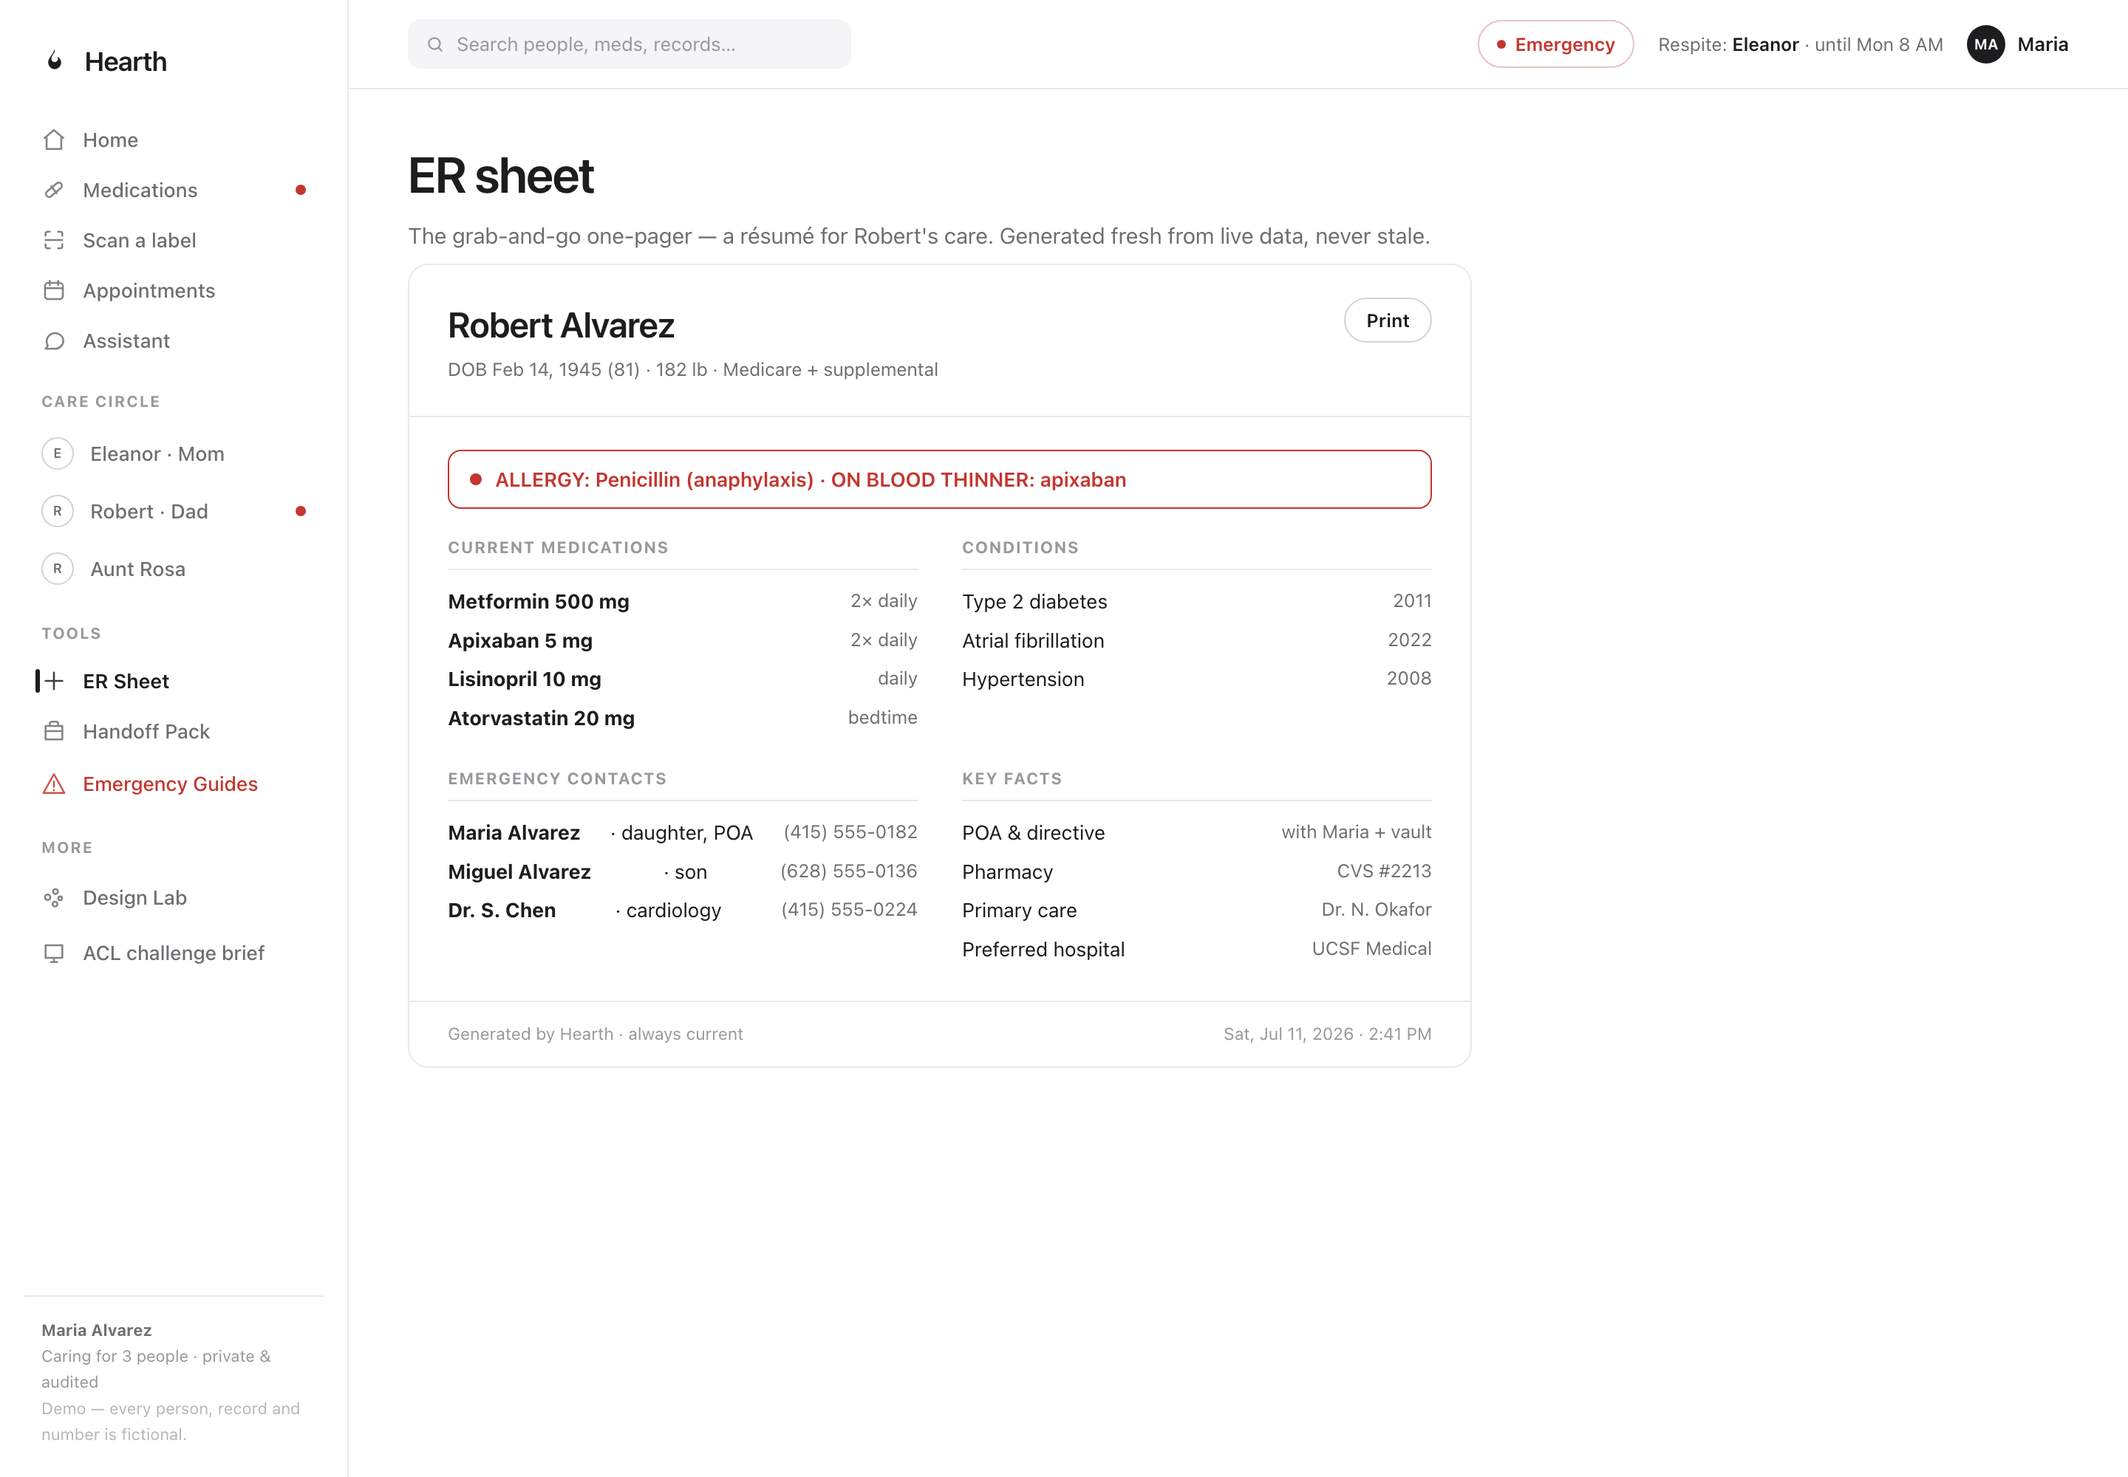
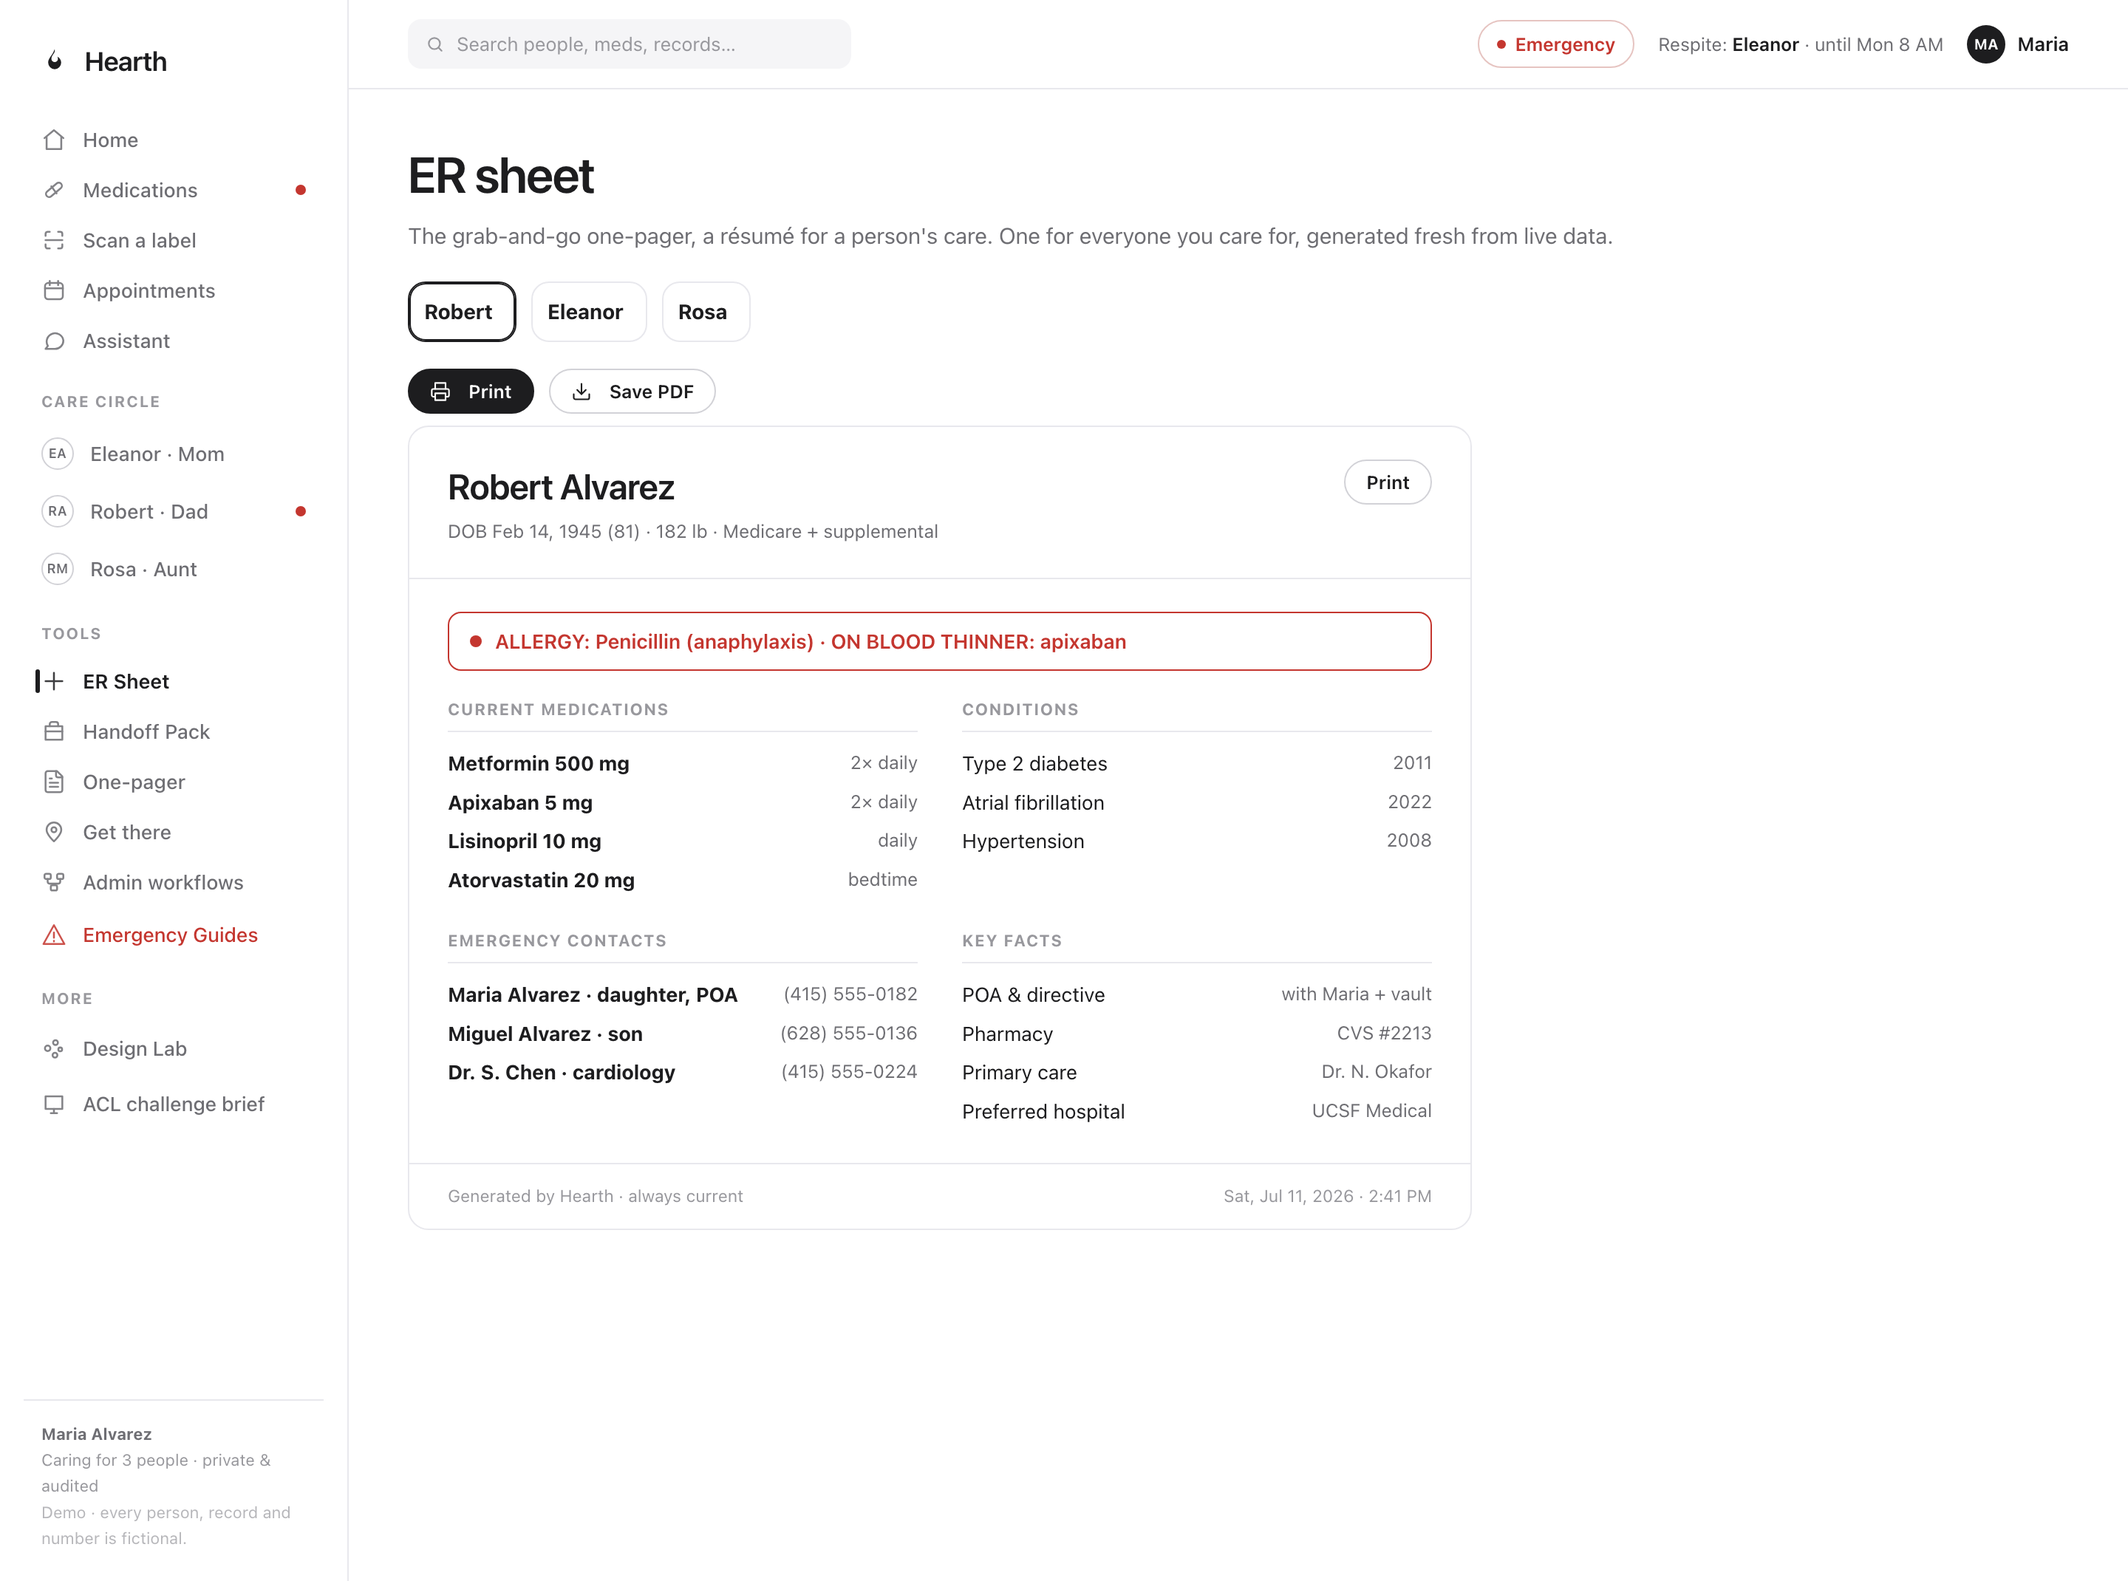
UI polish: thin scrollbars; ER Sheet now selectable for all three people; non-zoomed static street map on Get there (full route + both markers visible); tighter one-pager that fits one page; concise transport intro

diff --git a/index.html b/index.html
@@ -293,7 +293,7 @@ table.tbl tr:last-child td{border-bottom:none}
 .pchip .av{width:26px;height:26px;font-size:11px}
 .pchip b{font-size:14px}
 .pchip .sm{font-size:12px;color:var(--ink3)}
-.mapwrap{border:1px solid var(--line);border-radius:16px;overflow:hidden;background:#F7F7F5;position:relative;min-height:390px}
+.mapwrap{border:1px solid var(--line);border-radius:16px;overflow:hidden;background:#EDEEE9;position:relative;aspect-ratio:64/46}
 .mapwrap svg{width:100%;height:100%;display:block}
 .maptag{position:absolute;left:16px;bottom:14px;font-size:12px;color:var(--ink);background:rgba(255,255,255,.9);border:1px solid var(--line);border-radius:9px;padding:7px 11px;backdrop-filter:blur(4px)}
 .ropt{display:flex;align-items:center;gap:14px;border:1px solid var(--line);border-radius:14px;padding:14px 16px;margin-top:12px;transition:.15s}
@@ -389,6 +389,19 @@ table.tbl tr:last-child td{border-bottom:none}
 .srgrid{display:grid;grid-template-columns:1fr 1fr;gap:13px 18px}
 .srgrid .k{display:block;font-size:11px;color:var(--ink3);text-transform:uppercase;letter-spacing:.04em;margin-bottom:2px}
 .srgrid b{font-size:13.5px}.srgrid b.red{color:var(--red)}
+
+/* thin, quiet scrollbars */
+*{scrollbar-width:thin;scrollbar-color:#CFCFD4 transparent}
+::-webkit-scrollbar{width:8px;height:8px}
+::-webkit-scrollbar-track{background:transparent}
+::-webkit-scrollbar-thumb{background:#D2D2D7;border-radius:10px;border:2px solid #fff;background-clip:padding-box}
+::-webkit-scrollbar-thumb:hover{background:#BDBDC4;background-clip:padding-box}
+/* one-pager: tighter so it reads as a single page */
+#opBody .erbody{padding:20px 24px}
+#opBody .subhead{margin:14px 0 4px}
+#opBody .lrow{padding:8px 0;font-size:13px}
+#opBody .needs td,#opBody .needs th{padding:8px 12px}
+#opBody .erband{margin:6px 0 10px}
 </style>
 </head>
 <body>
@@ -709,20 +722,9 @@ table.tbl tr:last-child td{border-bottom:none}
   <!-- ========== ER ========== -->
   <section class="view" id="v-er">
     <h1 class="greet" style="font-size:34px">ER sheet</h1>
-    <p class="subline" style="font-size:15px">The grab-and-go one-pager · a résumé for Robert's care. Generated fresh from live data, never stale.</p>
-    <div class="ersheet">
-      <div class="erhead"><div><h2>Robert Alvarez</h2><div class="sub">DOB Feb 14, 1945 (81) · 182 lb · Medicare + supplemental</div></div><button class="btn sm">Print</button></div>
-      <div class="erbody">
-        <div class="erband"><span class="dot red"></span>ALLERGY: Penicillin (anaphylaxis) · ON BLOOD THINNER: apixaban</div>
-        <div class="ergrid">
-          <div class="erb"><h5>Current medications</h5><li><b>Metformin 500 mg</b><span>2× daily</span></li><li><b>Apixaban 5 mg</b><span>2× daily</span></li><li><b>Lisinopril 10 mg</b><span>daily</span></li><li><b>Atorvastatin 20 mg</b><span>bedtime</span></li></div>
-          <div class="erb"><h5>Conditions</h5><li>Type 2 diabetes<span>2011</span></li><li>Atrial fibrillation<span>2022</span></li><li>Hypertension<span>2008</span></li></div>
-          <div class="erb"><h5>Emergency contacts</h5><li><b>Maria Alvarez</b> · daughter, POA<span>(415) 555-0182</span></li><li><b>Miguel Alvarez</b> · son<span>(628) 555-0136</span></li><li><b>Dr. S. Chen</b> · cardiology<span>(415) 555-0224</span></li></div>
-          <div class="erb"><h5>Key facts</h5><li>POA &amp; directive<span>with Maria + vault</span></li><li>Pharmacy<span>CVS #2213</span></li><li>Primary care<span>Dr. N. Okafor</span></li><li>Preferred hospital<span>UCSF Medical</span></li></div>
-        </div>
-      </div>
-      <div class="erfoot"><span>Generated by Hearth · always current</span><span>Sat, Jul 11, 2026 · 2:41 PM</span></div>
-    </div>
+    <p class="subline" style="font-size:15px">The grab-and-go one-pager, a résumé for a person's care. One for everyone you care for, generated fresh from live data.</p>
+    <div class="picker" id="erPicker"></div>
+    <div id="erBody"></div>
   </section>
 
   <!-- ========== HANDOFF ========== -->
@@ -908,7 +910,7 @@ table.tbl tr:last-child td{border-bottom:none}
   <!-- ========== TRANSPORT ========== -->
   <section class="view" id="v-transport">
     <h1 class="greet" style="font-size:34px">Get there</h1>
-    <p class="subline" style="font-size:15px" id="tIntro">The fastest, safest way to reach someone you care for, from wherever you are right now.</p>
+    <p class="subline" style="font-size:15px" id="tIntro">Pick a person. From where you are right now, Hearth compares every way to reach them, tagged fastest, safest, and most accessible, plus medical transport to get them to appointments.</p>
     <div class="picker" id="tPicker"></div>
     <div class="cols c2b" style="margin-top:10px">
       <div class="mapwrap" id="tMap"></div>
@@ -1045,35 +1047,38 @@ function kindIconName(k){var m={trigger:'play',extract:'scissors',lookup:'search
 function tTag(s){s=(s||'').toLowerCase();
  if(s.indexOf('fast')>=0)return 'fast'; if(s.indexOf('safe')>=0)return 'safe';
  if(s.indexOf('access')>=0)return 'access'; if(s.indexOf('cheap')>=0||s.indexOf('afford')>=0)return 'cheap'; return '';}
-function tRoads(){var majors=['M0 250H600','M0 150H600','M96 0V420','M250 0V420','M430 0V420'];
- var minors=['M0 90H600','M0 330H600','M170 0V420','M340 0V420','M520 0V420'];var s='';
- majors.forEach(function(d){s+='<path d="'+d+'" stroke="#E1E1DB" stroke-width="13" fill="none"/>';});
- minors.forEach(function(d){s+='<path d="'+d+'" stroke="#E7E7E1" stroke-width="7" fill="none"/>';});
- minors.forEach(function(d){s+='<path d="'+d+'" stroke="#fff" stroke-width="4" fill="none"/>';});
- majors.forEach(function(d){s+='<path d="'+d+'" stroke="#fff" stroke-width="7.5" fill="none"/>';});
- return s;}
+function tRoads(){
+ var majors=['M0 200H640','M0 300H640','M110 0V460','M280 0V460','M500 0V460'];
+ var minors=['M0 95H640','M0 400H640','M195 0V460','M390 0V460','M600 0V460'];
+ var s='';
+ majors.forEach(function(d){s+='<path d="'+d+'" stroke="#E1E1DB" stroke-width="14" fill="none"/>';});
+ minors.forEach(function(d){s+='<path d="'+d+'" stroke="#E7E7E1" stroke-width="8" fill="none"/>';});
+ minors.forEach(function(d){s+='<path d="'+d+'" stroke="#fff" stroke-width="4.5" fill="none"/>';});
+ majors.forEach(function(d){s+='<path d="'+d+'" stroke="#fff" stroke-width="8.5" fill="none"/>';});
+ return s;
+}
 function tMapSVG(){
- return '<svg viewBox="0 0 600 420" preserveAspectRatio="xMidYMid slice">'
-  +'<rect width="600" height="420" fill="#EDEEE9"/>'
-  +'<path d="M470 0 C500 60 480 120 522 172 C562 224 542 306 600 344 L600 420 L470 420 Z" fill="#C6D9EC"/>'
-  +'<path d="M0 366 C82 356 142 386 224 378 C306 370 366 398 448 392 L600 404 L600 420 L0 420 Z" fill="#C6D9EC"/>'
-  +'<rect x="60" y="152" width="212" height="70" rx="11" fill="#D7E6C8"/>'
-  +'<rect x="332" y="58" width="118" height="90" rx="11" fill="#D7E6C8"/>'
+ var route='M110 360 L110 300 L280 300 L280 200 L500 200 L500 120';
+ return '<svg viewBox="0 0 640 460" preserveAspectRatio="xMidYMid meet">'
+  +'<rect x="-30" y="-30" width="700" height="520" fill="#EDEEE9"/>'
+  +'<path d="M-30 398 C90 384 150 414 250 406 C355 398 425 424 525 416 L670 428 L670 490 L-30 490 Z" fill="#C6D9EC"/>'
+  +'<rect x="70" y="150" width="150" height="118" rx="13" fill="#D7E6C8"/>'
+  +'<rect x="360" y="70" width="128" height="96" rx="13" fill="#D7E6C8"/>'
   +tRoads()
-  +'<path d="M96 332 L96 250 L250 250 L250 150 L430 150 L430 98" fill="none" stroke="#fff" stroke-width="9.5" stroke-linecap="round" stroke-linejoin="round"/>'
-  +'<path d="M96 332 L96 250 L250 250 L250 150 L430 150 L430 98" fill="none" stroke="#2F6FEB" stroke-width="5" stroke-linecap="round" stroke-linejoin="round"/>'
-  +'<circle cx="96" cy="332" r="14" fill="#2F6FEB" opacity=".16"/><circle cx="96" cy="332" r="7" fill="#2F6FEB" stroke="#fff" stroke-width="2.5"/>'
-  +'<g transform="translate(430,98)"><path d="M0 4C9 4 15 -3.5 15 -11A15 15 0 1 0 -15 -11C-15 -3.5 -9 4 0 4Z" fill="#C4362F"/><circle cx="0" cy="-13" r="4.6" fill="#fff"/></g>'
-  +'<text x="150" y="244" font-size="9" fill="#9C9C96" font-family="-apple-system,sans-serif">Lincoln Way</text>'
-  +'<text x="150" y="343" font-size="9" fill="#9C9C96" font-family="-apple-system,sans-serif">Judah St</text>'
-  +'<text x="262" y="118" font-size="9" fill="#9C9C96" font-family="-apple-system,sans-serif" transform="rotate(90 262 118)">19th Ave</text>'
-  +'<text x="118" y="192" font-size="9.5" fill="#8CA277" font-family="-apple-system,sans-serif">Golden Gate Park</text>'
+  +'<path d="'+route+'" fill="none" stroke="#fff" stroke-width="10.5" stroke-linecap="round" stroke-linejoin="round"/>'
+  +'<path d="'+route+'" fill="none" stroke="#2F6FEB" stroke-width="5.5" stroke-linecap="round" stroke-linejoin="round"/>'
+  +'<circle cx="110" cy="360" r="15" fill="#2F6FEB" opacity=".16"/><circle cx="110" cy="360" r="7.5" fill="#2F6FEB" stroke="#fff" stroke-width="2.5"/>'
+  +'<g transform="translate(500,120)"><path d="M0 4C9.5 4 16 -3.6 16 -12A16 16 0 1 0 -16 -12C-16 -3.6 -9.5 4 0 4Z" fill="#C4362F"/><circle cx="0" cy="-14" r="5" fill="#fff"/></g>'
+  +'<text x="150" y="294" font-size="10" fill="#9C9C96" font-family="-apple-system,sans-serif">Lincoln Way</text>'
+  +'<text x="150" y="394" font-size="10" fill="#9C9C96" font-family="-apple-system,sans-serif">Judah St</text>'
+  +'<text x="292" y="140" font-size="10" fill="#9C9C96" font-family="-apple-system,sans-serif" transform="rotate(90 292 140)">19th Ave</text>'
+  +'<text x="96" y="196" font-size="10.5" fill="#8CA277" font-family="-apple-system,sans-serif">Golden Gate Park</text>'
   +'</svg>';
 }
+
 function renderTransport(i){
  if(!TPDATA||!TPDATA.routes||!TPDATA.routes.length)return;
  var picker=document.getElementById('tPicker'); if(!picker)return;
- if(TPDATA.intro){var ti=document.getElementById('tIntro');if(ti)ti.textContent=TPDATA.intro;}
  picker.innerHTML=TPDATA.routes.map(function(r,idx){
   return '<div class="pchip'+(idx===i?' on':'')+'" data-tpi="'+idx+'"><span class="av">'+(r.patient||'?').charAt(0)+'</span><b>'+(r.patient||'')+'</b><span class="sm">'+(r.toLabel||'')+'</span></div>';
  }).join('');
@@ -1250,6 +1255,44 @@ function renderOnePager(who){
  document.getElementById('opBody').innerHTML = who==="everyone"? opEveryone() : opPerson(who);
 }
 
+
+/* ===== ER sheet (all people) ===== */
+var ERDATA={
+ robert:{name:"Robert Alvarez",sub:"DOB Feb 14, 1945 (81) · 182 lb · Medicare + supplemental",allergy:"ALLERGY: Penicillin (anaphylaxis) · ON BLOOD THINNER: apixaban",dot:"red",
+  meds:[["Metformin 500 mg","2× daily"],["Apixaban 5 mg","2× daily"],["Lisinopril 10 mg","daily"],["Atorvastatin 20 mg","bedtime"]],
+  conditions:[["Type 2 diabetes","2011"],["Atrial fibrillation","2022"],["Hypertension","2008"]],
+  contacts:[["Maria Alvarez · daughter, POA","(415) 555-0182"],["Miguel Alvarez · son","(628) 555-0136"],["Dr. S. Chen · cardiology","(415) 555-0224"]],
+  facts:[["POA & directive","with Maria + vault"],["Pharmacy","CVS #2213"],["Primary care","Dr. N. Okafor"],["Preferred hospital","UCSF Medical"]]},
+ eleanor:{name:"Eleanor Alvarez",sub:"DOB Mar 3, 1948 (78) · 138 lb · Medicare + supplemental",allergy:"NO KNOWN DRUG ALLERGIES · early-stage Alzheimer's, may be disoriented",dot:"amber",
+  meds:[["Donepezil 10 mg","bedtime"],["Sertraline 50 mg","morning"],["Amlodipine 5 mg","daily"]],
+  conditions:[["Early-stage Alzheimer's","2024"],["Hypertension","2018"],["Osteoporosis","2020"]],
+  contacts:[["Maria Alvarez · daughter, proxy","(415) 555-0182"],["Miguel Alvarez · son","(628) 555-0136"],["Dr. A. Patel · neurology","(415) 555-0287"]],
+  facts:[["Healthcare proxy","Maria + vault"],["Pharmacy","Walgreens #4471"],["Primary care","Dr. N. Okafor"],["Preferred hospital","Kaiser Oakland"]]},
+ rosa:{name:"Rosa Marquez",sub:"DOB Sep 21, 1951 (74) · 150 lb · Medicare",allergy:"NO KNOWN DRUG ALLERGIES",dot:"green",
+  meds:[["Levothyroxine 75 mcg","fasting"],["Ibuprofen 200 mg","as needed"]],
+  conditions:[["Hypothyroidism","2015"]],
+  contacts:[["Maria Alvarez · niece","(415) 555-0182"],["Miguel Alvarez · nephew","(628) 555-0136"],["Dr. N. Okafor · primary","(415) 555-0301"]],
+  facts:[["Advance directive","with Maria"],["Pharmacy","CVS #2213"],["Primary care","Dr. N. Okafor"],["Preferred hospital","UCSF Medical"]]}
+};
+function erList(a,b){return a.map(function(x){return '<li>'+(b?'<b>'+x[0]+'</b>':x[0])+'<span>'+x[1]+'</span></li>';}).join('');}
+function renderER(who){
+ var pk=document.getElementById('erPicker'); if(!pk)return;
+ var d=ERDATA[who]; if(!d)return;
+ pk.innerHTML=[["robert","Robert"],["eleanor","Eleanor"],["rosa","Rosa"]].map(function(t){return '<div class="pchip'+(t[0]===who?' on':'')+'" data-er="'+t[0]+'"><b>'+t[1]+'</b></div>';}).join('');
+ var band=d.dot==="red"
+   ? '<div class="erband"><span class="dot red"></span>'+d.allergy+'</div>'
+   : '<div class="erband" style="border-color:var(--line);background:var(--hover);color:var(--ink2)"><span class="dot '+d.dot+'"></span>'+d.allergy+'</div>';
+ document.getElementById('erBody').innerHTML=
+  '<div class="opbar"><button class="btn dark sm">'+ico('printer')+'Print</button><button class="btn sm">'+ico('download')+'Save PDF</button></div>'
+  +'<div class="ersheet"><div class="erhead"><div><h2>'+d.name+'</h2><div class="sub">'+d.sub+'</div></div><button class="btn sm">Print</button></div><div class="erbody">'
+   +band
+   +'<div class="ergrid"><div class="erb"><h5>Current medications</h5>'+erList(d.meds,true)+'</div>'
+   +'<div class="erb"><h5>Conditions</h5>'+erList(d.conditions,false)+'</div>'
+   +'<div class="erb"><h5>Emergency contacts</h5>'+erList(d.contacts,true)+'</div>'
+   +'<div class="erb"><h5>Key facts</h5>'+erList(d.facts,false)+'</div></div></div>'
+   +'<div class="erfoot"><span>Generated by Hearth · always current</span><span>Sat, Jul 11, 2026 · 2:41 PM</span></div></div>';
+}
+
 document.addEventListener('click',function(e){
  var t=e.target;
  var c=t.closest&&t.closest('[data-wf]'); if(c){openWf(c.getAttribute('data-wf'));return;}
@@ -1257,8 +1300,9 @@ document.addEventListener('click',function(e){
  if(t.closest&&t.closest('[data-wfback]')){closeWf();return;}
  var rb=t.closest&&t.closest('[data-wfrun]'); if(rb){runWf(rb.getAttribute('data-wfrun'));return;}
  var op=t.closest&&t.closest('[data-op]'); if(op){renderOnePager(op.getAttribute('data-op'));return;}
+ var er=t.closest&&t.closest('[data-er]'); if(er){renderER(er.getAttribute('data-er'));return;}
 });
-renderWfLibrary(); renderTransport(0); renderOnePager("everyone");
+renderWfLibrary(); renderTransport(0); renderOnePager("everyone"); renderER("robert");
 
 var h=(location.hash||'').replace('#',''); if(h && document.getElementById('v-'+h)) go(h);
 </script>
